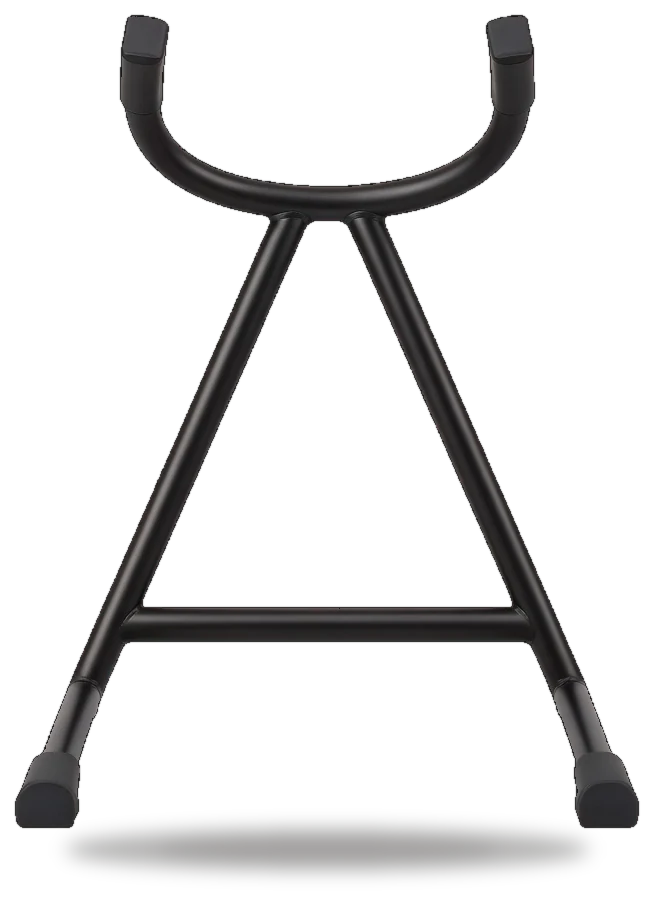
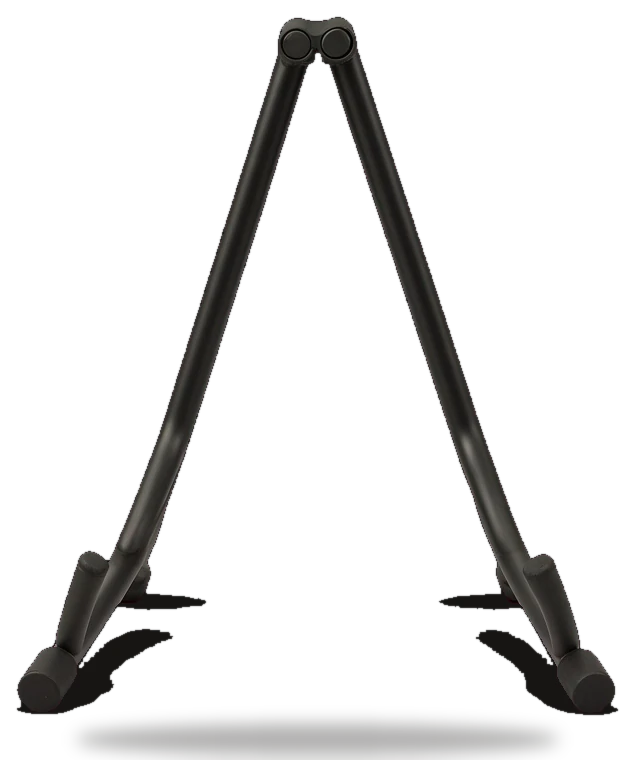
Bigger guitars on a low stand
The hero guitar fills the stage. A short A-frame shows only its feet under the body, the neighbours sit close, and a warm glow wraps the neck and the body.

Changed region(s): [[0.0, 0.0, 0.9874, 1.0]]

diff --git a/styles.css b/styles.css
@@ -5446,48 +5446,53 @@ body.tabbed:not(.is-home) .app:has(> .dock) { padding-bottom: calc(var(--tabs) +
 }
 :root:is([data-look="neon"], [data-look="festival"]) .rr-case-card .rr-card-h { padding: 0 2px; }
 :root:is([data-look="neon"], [data-look="festival"]) .rr-case-note { margin: 4px 2px 0; color: var(--rr-text-2); font: var(--type-subhead-w, 500) var(--type-subhead) / 1.35 "Inter", var(--sans); }
-.gs-stage { --gs-h: 252px; --gs-stand-w: 176px; --gs-aspect: 1.372; --gs-seat: 0.74; --gs-b: .72; --gs-o: .78; position: relative; }
-.gs-sheet { --gs-h: 140px; --gs-stand-w: 104px; }
-:root[data-look="festival"] .gs-stage { --gs-b: .94; --gs-o: .74; }
+.gs-stage { --gs-h: 328px; --gs-leg: 32px; --gs-stride: 136px; --gs-b: .78; --gs-o: .84; position: relative; }
+.gs-sheet { --gs-h: 276px; --gs-leg: 28px; --gs-stride: 132px; }
+:root[data-look="festival"] .gs-stage { --gs-b: .96; --gs-o: .76; }
 .gs-hero { position: relative; }
 .gs-glow {
-  position: absolute; left: 50%; top: -4%; z-index: 0; width: 72%; height: calc(var(--gs-h) * 1.08); transform: translateX(-50%); pointer-events: none;
-  background: radial-gradient(ellipse 52% 70% at 50% 44%, rgba(220, 140, 52, .34) 0%, rgba(176, 98, 30, .14) 40%, transparent 74%);
+  position: absolute; left: 50%; top: -10px; z-index: 0; width: 58%; height: calc(var(--gs-h) + 20px); transform: translateX(-50%); pointer-events: none;
+  background: radial-gradient(ellipse 46% 56% at 50% 46%, rgba(232, 160, 68, .42) 0%, rgba(220, 140, 52, .24) 24%, rgba(176, 98, 30, .11) 46%, transparent 72%);
 }
 :root[data-look="festival"] .gs-glow {
-  background: radial-gradient(ellipse 54% 70% at 50% 44%, rgba(214, 146, 62, .24) 0%, rgba(196, 130, 52, .09) 44%, transparent 76%);
+  background: radial-gradient(ellipse 50% 58% at 50% 46%, rgba(214, 146, 62, .30) 0%, rgba(196, 130, 52, .12) 32%, transparent 72%);
 }
-.gs-empty .gs-glow { top: 8%; height: 86%; }
-.gs-floor { display: none; position: absolute; left: 50%; bottom: 2px; z-index: 1; width: 54%; height: 18px; transform: translateX(-50%); pointer-events: none;
-  background: radial-gradient(ellipse at center, rgba(62, 40, 16, .30) 0%, transparent 72%); }
-:root[data-look="festival"] .gs-floor { display: block; }
-.gs-back, .gs-front {
-  position: absolute; left: 50%; bottom: 0; z-index: 1; width: var(--gs-stand-w); height: auto; transform: translateX(-50%); pointer-events: none; user-select: none;
+.gs-empty .gs-glow { top: 4%; height: 96%; width: 86%; }
+.gs-floor { position: absolute; left: 50%; bottom: 8px; z-index: 0; width: 50%; height: 36px; transform: translateX(-50%); pointer-events: none;
+  background: radial-gradient(ellipse at center, rgba(220, 140, 52, .28), transparent 72%); }
+:root[data-look="festival"] .gs-floor { background: radial-gradient(ellipse at center, rgba(80, 48, 20, .24), transparent 70%); }
+.gs-back {
+  position: absolute; left: 50%; bottom: 0; z-index: 1; width: auto; height: 148px; transform: translateX(-50%); pointer-events: none; user-select: none;
 }
-.gs-front { z-index: 4; }
 .gs-track {
   position: relative; z-index: 2; display: flex; align-items: flex-end; box-sizing: border-box;
-  height: calc(var(--gs-h) + var(--gs-stand-w) * var(--gs-aspect) * var(--gs-seat) + 6px);
-  padding-bottom: calc(var(--gs-stand-w) * var(--gs-aspect) * var(--gs-seat) - 12px);
+  height: calc(var(--gs-h) + var(--gs-leg) + 4px);
+  padding-bottom: var(--gs-leg);
   overflow-x: auto; overflow-y: hidden; scroll-snap-type: x mandatory; scrollbar-width: none;
   overscroll-behavior-x: contain; touch-action: pan-x;
 }
 .gs-track::-webkit-scrollbar { display: none; }
 :root:is([data-look="neon"], [data-look="festival"]) .gs-track::before,
-:root:is([data-look="neon"], [data-look="festival"]) .gs-track::after { content: ""; flex: 0 0 26%; }
+:root:is([data-look="neon"], [data-look="festival"]) .gs-track::after { content: ""; flex: 0 0 calc((100% - var(--gs-stride)) / 2); }
 :root:is([data-look="neon"], [data-look="festival"]) .gs-item {
-  flex: 0 0 48%; scroll-snap-align: center; display: flex; align-items: flex-end; justify-content: center;
+  flex: 0 0 var(--gs-stride); scroll-snap-align: center; display: flex; align-items: flex-end; justify-content: center;
   min-width: 44px; min-height: 44px; margin: 0; padding: 0; border: 0; background: none; color: inherit; cursor: pointer;
 }
 :root:is([data-look="neon"], [data-look="festival"]) .gs-item img {
   display: block; height: var(--gs-h); width: auto; max-width: none; object-fit: contain; object-position: center bottom; transform-origin: center bottom;
-  transform: scale(calc(1 - .16 * var(--gs-p, 0)));
-  filter: brightness(calc(1 - (1 - var(--gs-b)) * var(--gs-p, 0))) drop-shadow(0 12px 10px rgba(0, 0, 0, .42));
+  transform: scale(calc(1 - .13 * var(--gs-p, 0)));
+  filter: brightness(calc(1 - (1 - var(--gs-b)) * var(--gs-p, 0))) drop-shadow(0 8px 8px rgba(0, 0, 0, .28));
   opacity: calc(1 - (1 - var(--gs-o)) * var(--gs-p, 0));
   transition: transform .35s ease, filter .35s ease, opacity .35s ease;
 }
+:root[data-look="neon"] .gs-item.is-on img {
+  filter: brightness(1) drop-shadow(0 0 14px rgba(242, 168, 76, .52)) drop-shadow(0 0 34px rgba(208, 124, 38, .30)) drop-shadow(0 8px 10px rgba(0, 0, 0, .32));
+}
+:root[data-look="festival"] .gs-item.is-on img {
+  filter: brightness(1) drop-shadow(0 0 12px rgba(214, 146, 62, .40)) drop-shadow(0 0 28px rgba(186, 118, 42, .18)) drop-shadow(0 8px 8px rgba(70, 42, 16, .22));
+}
 .gs-item:focus-visible { outline: 2px solid var(--rr-amber-text); outline-offset: 2px; border-radius: 8px; }
-.gs-pager { display: flex; align-items: center; justify-content: center; flex-wrap: nowrap; gap: 8px; min-height: 28px; margin: 2px 0 0; white-space: nowrap; }
+.gs-pager { position: relative; z-index: 5; display: flex; align-items: center; justify-content: center; flex-wrap: nowrap; gap: 7px; min-height: 22px; margin: -18px 0 0; white-space: nowrap; }
 .gs-dots { display: inline-flex; align-items: center; gap: 5px; }
 .gs-dots i { width: 6px; height: 6px; border-radius: 50%; background: var(--rr-text-2); opacity: .42; display: block; }
 .gs-dots i.on { width: 7px; height: 7px; opacity: 1; background: var(--rr-amber); }
@@ -5496,8 +5501,12 @@ body.tabbed:not(.is-home) .app:has(> .dock) { padding-bottom: calc(var(--tabs) +
 .gs-cap { margin: 2px 8px 0; text-align: center; }
 .gs-cap b { display: block; font: 700 var(--type-headline, 17px)/1.2 "Space Grotesk", var(--display); color: var(--rr-text); }
 .gs-cap small { display: block; margin-top: 1px; font: 500 var(--type-footnote, 13px)/1.3 "Inter", var(--sans); color: var(--rr-text-2); }
-.gs-empty { height: calc(var(--gs-stand-w) * var(--gs-aspect)); }
+.gs-empty { height: 136px; }
 .gs-empty .gs-hero { height: 100%; }
+.gs-empty .gs-back { height: 132px; }
+:root:is([data-look="neon"], [data-look="festival"]) .rd-gt.rr-case .pbody { gap: 4px; }
+.rr-case .sc-who { min-height: 0; }
+.rr-case .sc-who .sc-louie, .rr-case .sc-who .sc-louie .louie { width: 58px; }
 :root:is([data-look="neon"], [data-look="festival"]) .rr-case-card .gs-stage { width: calc(100% + 44px); margin-left: -22px; margin-right: -22px; }
 .rr-case .gs-stage { width: calc(100% + 8px); margin-left: -4px; margin-right: -4px; }
 

diff --git a/gstand.js b/gstand.js
@@ -95,7 +95,6 @@ export function standHTML(items, o = {}) {
       <div class="gs-floor" aria-hidden="true"></div>
       <img class="gs-back" src="${STAND}-back.webp${v}" alt="" aria-hidden="true">
       ${n ? `<div class="gs-track" role="group" aria-label="Your guitars, earned and bought">${pics}</div>` : ""}
-      <img class="gs-front" src="${STAND}-front.webp${v}" alt="" aria-hidden="true">
     </div>
     ${n ? pagerHTML(n, active) : ""}
     ${n && !sheet ? `<p class="gs-cap"><b>${esc(cur.name)}</b>${cur.status ? `<small>${esc(cur.status)}</small>` : ""}</p>` : ""}
